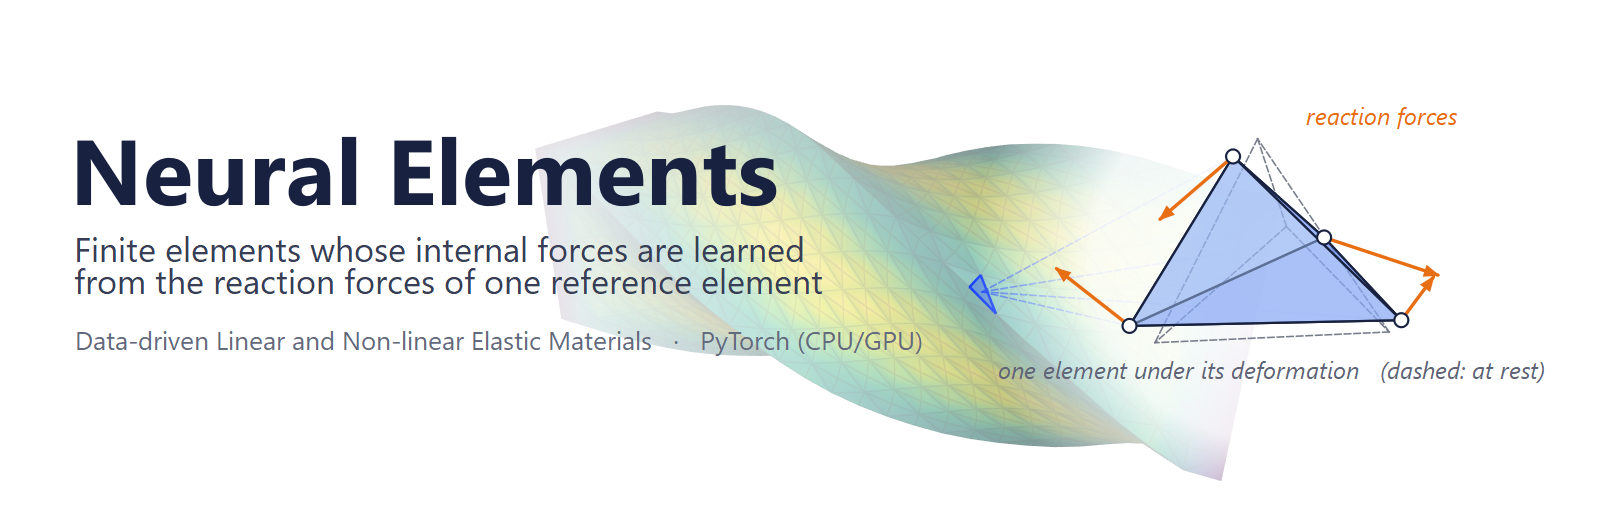
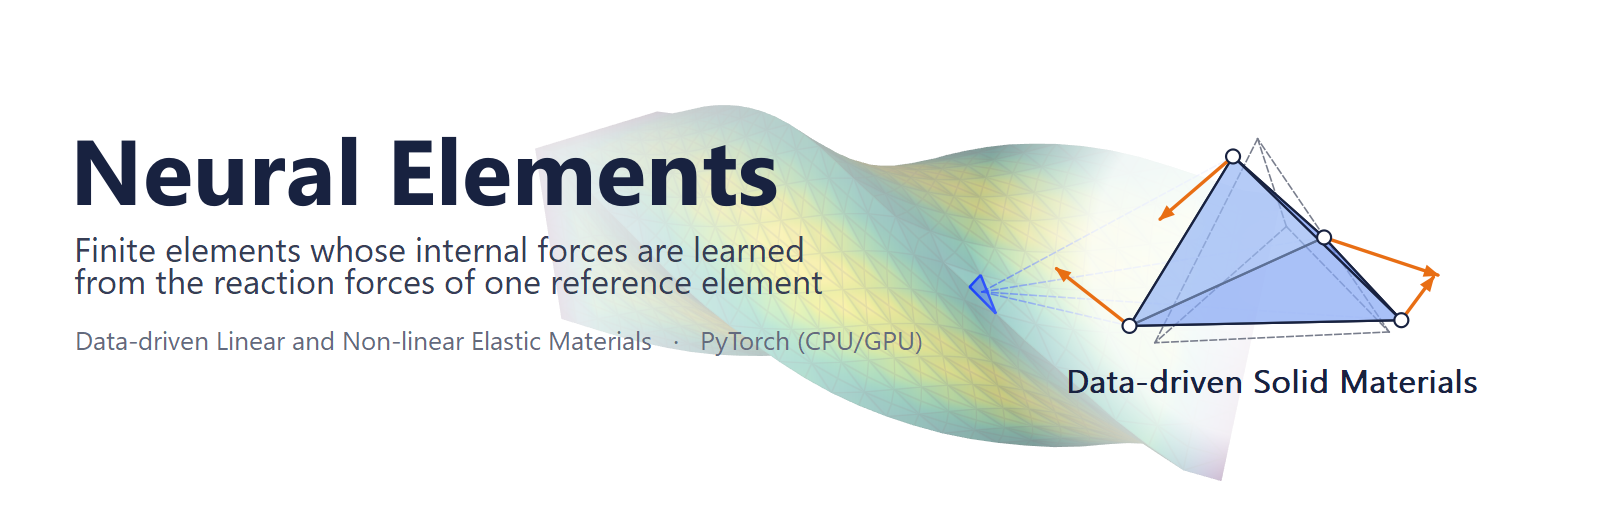
README TL;DR reordered with real-time simulation; title image caption
- TL;DR: the material-is-the-data point first, a real-time simulation point, the reference element last
- title image: the labels by the enlarged element replaced by the caption "Data-driven Solid Materials"

Ported to python using Claude.

Changed region(s): [[0.625, 0.7077, 0.9688, 0.7692], [0.8125, 0.2154, 0.9062, 0.2462]]

diff --git a/examples/make_title.py b/examples/make_title.py
@@ -5,7 +5,7 @@
 Background: a twisted Neo-Hookean beam (finite elements of the material), rendered with the viewer's OpenGL renderer
 and faded. Foreground: one of its surface elements, drawn as the reference element under that element's deformation
 (exaggerated for visibility), with its undeformed outline dashed and its reaction forces f_i = V P(F) grad N_i as
-arrows: the quantity the Neural Element networks are trained on.
+arrows: the quantity the Neural Element networks are trained on. Caption: "Data-driven Solid Materials".
 """
 import math
 import os
@@ -181,16 +181,11 @@ def main():
         qp.setBrush(QtGui.QColor(255, 255, 255))
         qp.drawEllipse(QtCore.QPointF(*flat(xr[v])), 7, 7)
     qp.setBrush(Qt.NoBrush)
-    small = QtGui.QFont("Segoe UI", 12)
-    small.setItalic(True)
-    qp.setFont(small)
-    box = np.array([flat(p) for p in np.concatenate([Xr, xr])] + tips)        # labels outside the drawing
-    qp.setPen(FORCE)
-    qp.drawText(QtCore.QRectF(box[:, 0].max() - 200, box[:, 1].min() - 40, 220, 26), Qt.AlignRight | Qt.TextDontClip,
-                "reaction forces")
-    qp.setPen(QtGui.QColor(95, 100, 118))
-    qp.drawText(QtCore.QRectF(center[0] - 350, box[:, 1].max() + 10, 700, 26), Qt.AlignHCenter | Qt.TextDontClip,
-                "one element under its deformation   (dashed: at rest)")
+    box = np.array([flat(p) for p in np.concatenate([Xr, xr])] + tips)        # the caption below the drawing
+    qp.setFont(QtGui.QFont("Segoe UI", 16, QtGui.QFont.DemiBold))
+    qp.setPen(INK)
+    qp.drawText(QtCore.QRectF(center[0] - 300, box[:, 1].max() + 14, 600, 30), Qt.AlignHCenter | Qt.TextDontClip,
+                "Data-driven Solid Materials")
 
     # title
     qp.setPen(INK)

diff --git a/README.md b/README.md
@@ -3,13 +3,13 @@
 # Neural Elements
 
 **TL;DR: data-driven continuum mechanics for solid elements.**
+- **The material is the data.** The same formulation reproduces linear, Neo-Hookean and St. Venant-Kirchhoff
+  materials to within 0.4% of finite elements (FEM). Only the training data changes.
+- **Real-time simulation in plain PyTorch.** The scenes here, up to 2,520 elements, run in real time on a laptop GPU.
+  The same code runs on the CPU and scales to 161k elements. It comes with an OpenGL viewer and one-file examples.
 - **One reference element.** A small network (96 weights) learns the reaction forces of one reference tetrahedron.
   Every element of a mesh gets its internal forces from it, through its own geometry. No constitutive law is
   evaluated at run time.
-- **The material is the data.** The same formulation reproduces linear, Neo-Hookean and St. Venant-Kirchhoff
-  materials to within 0.4% of finite elements (FEM). Only the training data changes.
-- **Plain PyTorch.** The same code runs on the CPU or a CUDA GPU, up to 161k elements. It comes with an OpenGL viewer
-  and one-file examples.
 
 ## The approach
 
